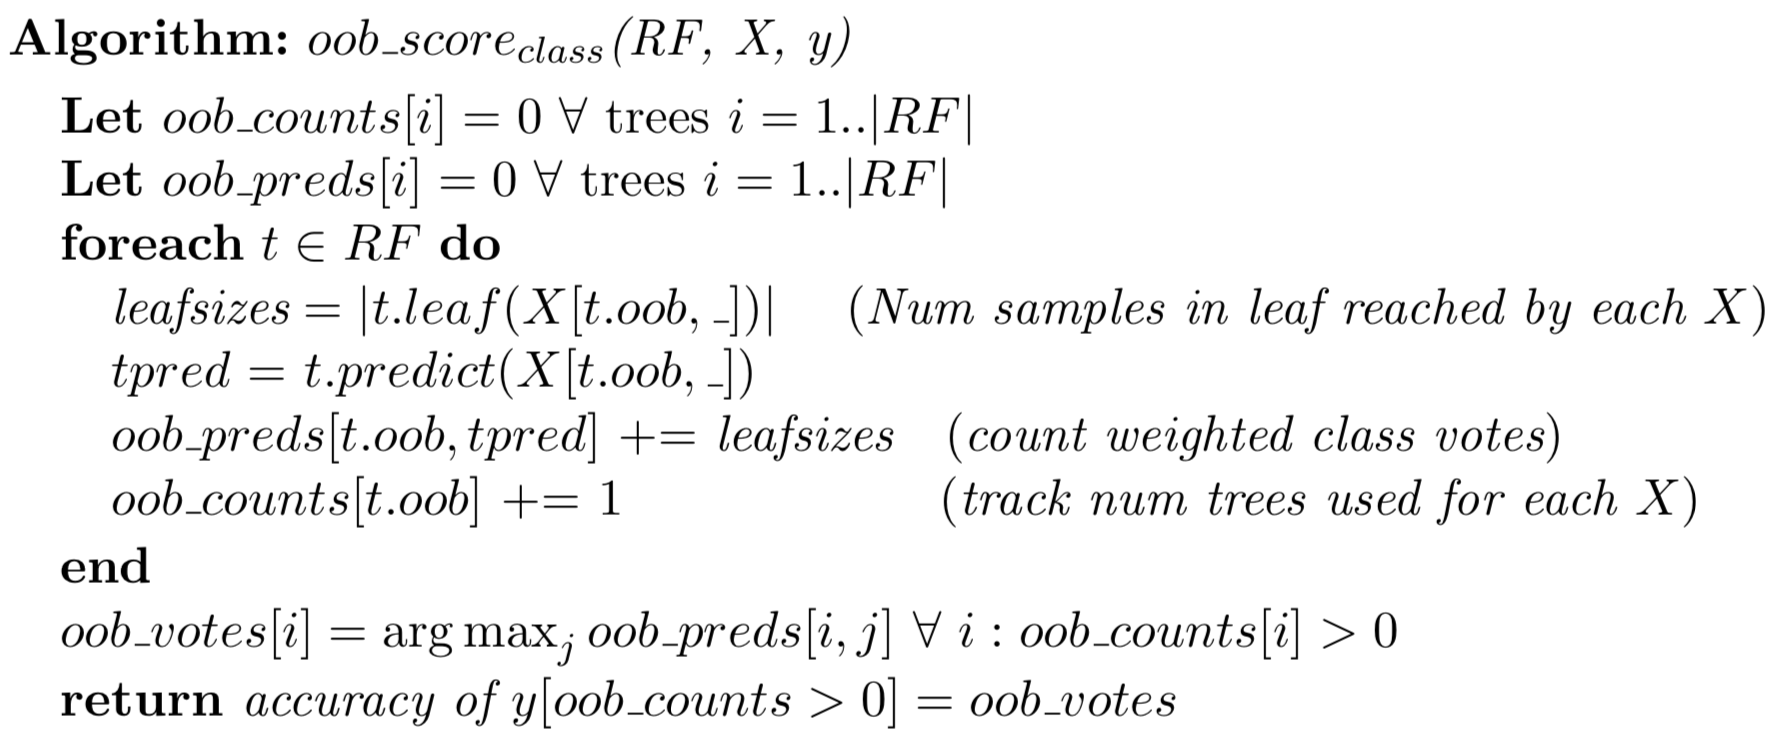
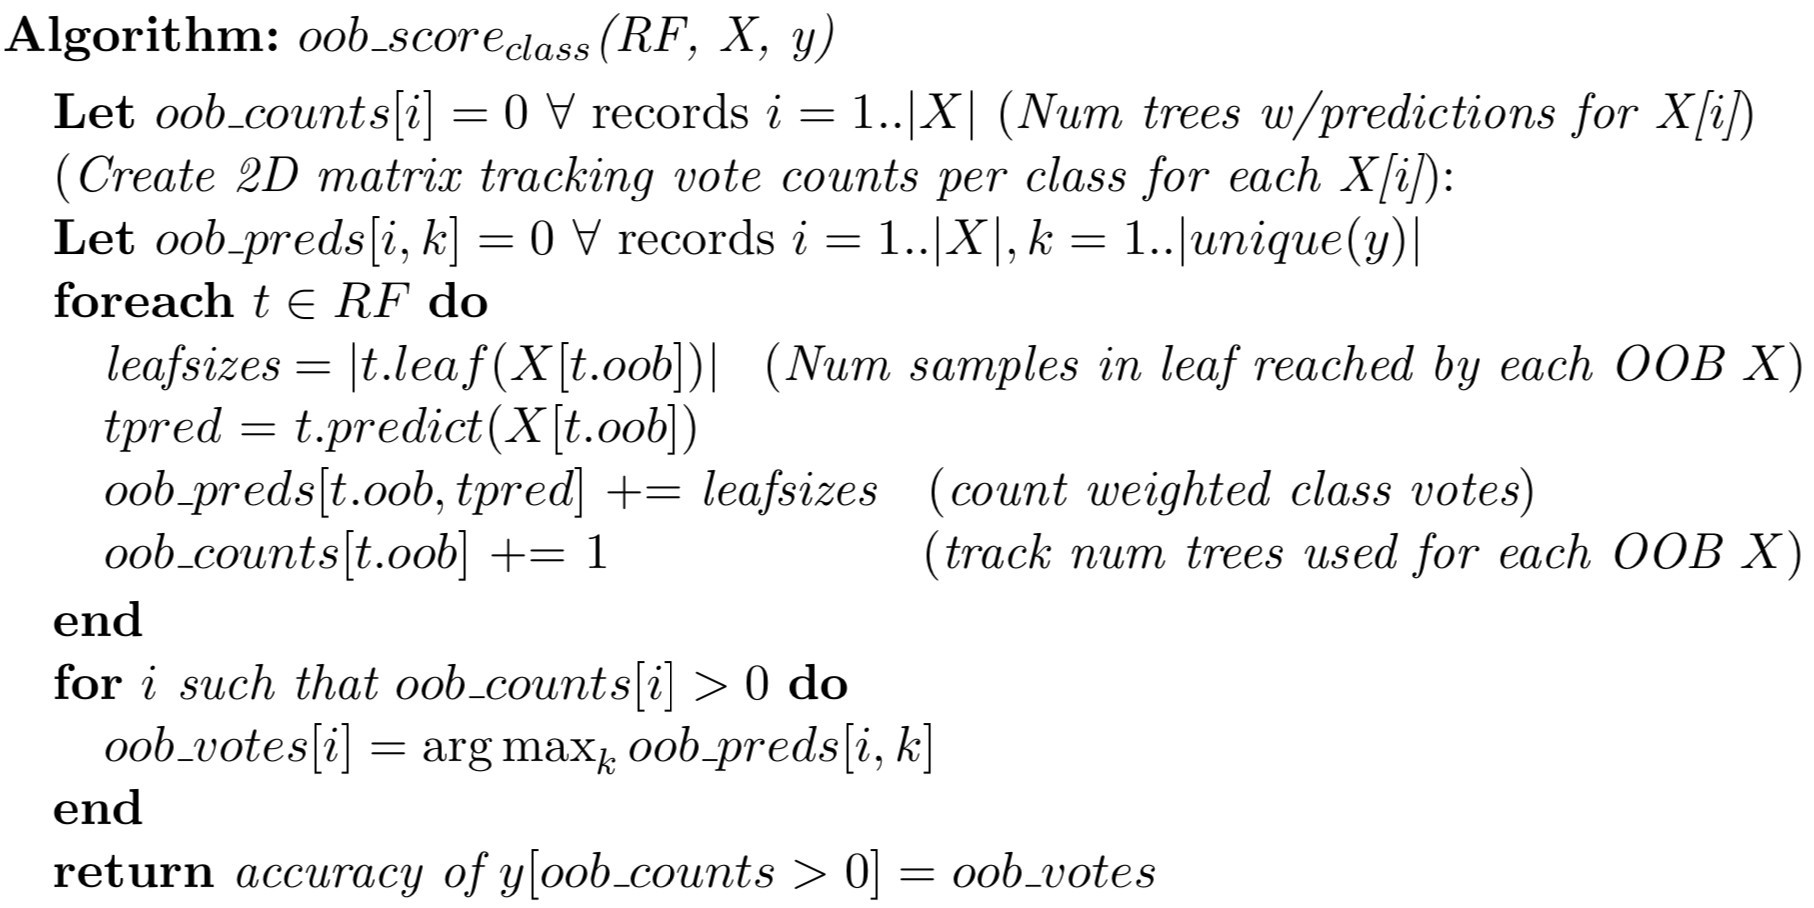
update notes

Changed region(s): [[0.0, 0.0, 1.0, 0.9062], [0.0309, 0.9375, 0.6805, 1.0], [0.5259, 0.6562, 0.9589, 0.7188]]

diff --git a/projects/rf/rf.md b/projects/rf/rf.md
@@ -152,9 +152,9 @@ The R^2 and accuracy scores for OOB observations is an accurate estimate of the 
 
 A bootstrapped sample is roughly 2/3 of the training records for any given tree, which leaves 1/3 of the samples (OOB) as test set. After training each decision tree, keep track of the OOB records in the tree.  For example, I do `t.oob_idxs = ...` inside my `fit()` method (for each tree `t`).  After training all trees in `fit()`, loop through the trees again and compute the OOB score, if hyperparameter `self.oob_score` is true. Save the score in `self.oob_score_` for either the RF regressor or classifier object, which is consistent with the sklearn implementation. See the class lecture slides for more details, but here are the algorithms again:
 
-<img src="images/oob-score-regr.png" width="70%">
+<img src="images/oob-score-regr.png" width="85%">
 
-<img src="images/oob-score-class.png" width="70%">
+<img src="images/oob-score-class.png" width="85%">
 
 ## Deliverables
 
